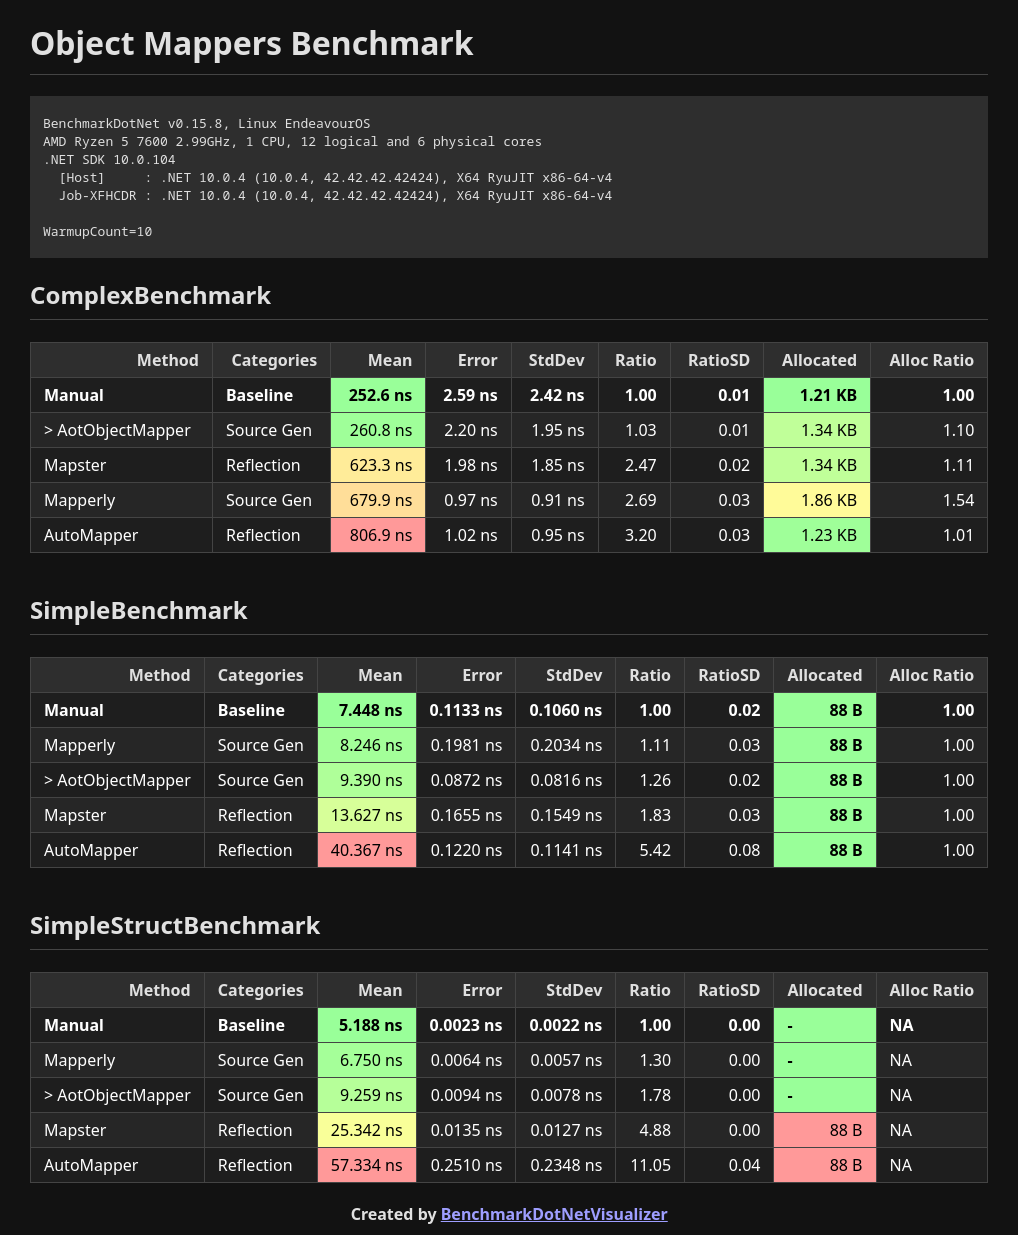
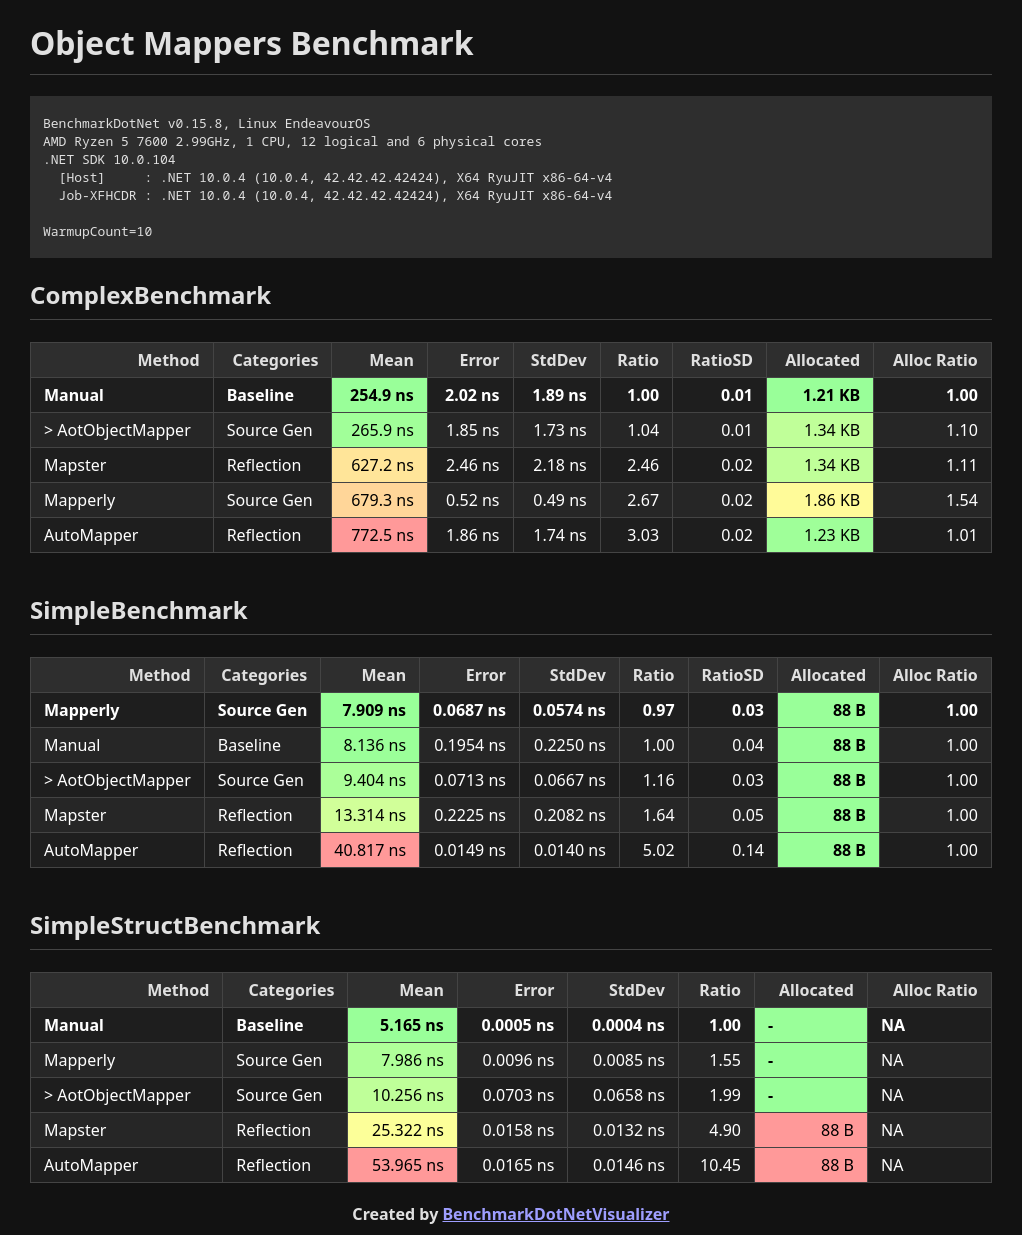
Update benchmark reports

diff --git a/Benchmarks/MappingBenchmarks/BenchmarkDotNet.Artifacts/results/MappingBenchmarks.SimpleStructBenchmark-report-github.md b/Benchmarks/MappingBenchmarks/BenchmarkDotNet.Artifacts/results/MappingBenchmarks.SimpleStructBenchmark-report-github.md
@@ -9,10 +9,10 @@ AMD Ryzen 5 7600 2.99GHz, 1 CPU, 12 logical and 6 physical cores
 WarmupCount=10  
 
 ```
-| Method              | Categories | Mean      | Error     | StdDev    | Ratio | RatioSD | Allocated | Alloc Ratio |
-|-------------------- |----------- |----------:|----------:|----------:|------:|--------:|----------:|------------:|
-| Manual              | Baseline   |  5.188 ns | 0.0023 ns | 0.0022 ns |  1.00 |    0.00 |         - |          NA |
-| Mapperly            | Source Gen |  6.750 ns | 0.0064 ns | 0.0057 ns |  1.30 |    0.00 |         - |          NA |
-| &#39;&gt; AotObjectMapper&#39; | Source Gen |  9.259 ns | 0.0094 ns | 0.0078 ns |  1.78 |    0.00 |         - |          NA |
-| Mapster             | Reflection | 25.342 ns | 0.0135 ns | 0.0127 ns |  4.88 |    0.00 |      88 B |          NA |
-| AutoMapper          | Reflection | 57.334 ns | 0.2510 ns | 0.2348 ns | 11.05 |    0.04 |      88 B |          NA |
+| Method              | Categories | Mean      | Error     | StdDev    | Ratio | Allocated | Alloc Ratio |
+|-------------------- |----------- |----------:|----------:|----------:|------:|----------:|------------:|
+| Manual              | Baseline   |  5.165 ns | 0.0005 ns | 0.0004 ns |  1.00 |         - |          NA |
+| Mapperly            | Source Gen |  7.986 ns | 0.0096 ns | 0.0085 ns |  1.55 |         - |          NA |
+| &#39;&gt; AotObjectMapper&#39; | Source Gen | 10.256 ns | 0.0703 ns | 0.0658 ns |  1.99 |         - |          NA |
+| Mapster             | Reflection | 25.322 ns | 0.0158 ns | 0.0132 ns |  4.90 |      88 B |          NA |
+| AutoMapper          | Reflection | 53.965 ns | 0.0165 ns | 0.0146 ns | 10.45 |      88 B |          NA |

diff --git a/Benchmarks/MappingBenchmarks/BenchmarkDotNet.Artifacts/results/MappingBenchmarks.SimpleBenchmark-report-github.md b/Benchmarks/MappingBenchmarks/BenchmarkDotNet.Artifacts/results/MappingBenchmarks.SimpleBenchmark-report-github.md
@@ -11,8 +11,8 @@ WarmupCount=10
 ```
 | Method              | Categories | Mean      | Error     | StdDev    | Ratio | RatioSD | Allocated | Alloc Ratio |
 |-------------------- |----------- |----------:|----------:|----------:|------:|--------:|----------:|------------:|
-| Manual              | Baseline   |  7.448 ns | 0.1133 ns | 0.1060 ns |  1.00 |    0.02 |      88 B |        1.00 |
-| Mapperly            | Source Gen |  8.246 ns | 0.1981 ns | 0.2034 ns |  1.11 |    0.03 |      88 B |        1.00 |
-| &#39;&gt; AotObjectMapper&#39; | Source Gen |  9.390 ns | 0.0872 ns | 0.0816 ns |  1.26 |    0.02 |      88 B |        1.00 |
-| Mapster             | Reflection | 13.627 ns | 0.1655 ns | 0.1549 ns |  1.83 |    0.03 |      88 B |        1.00 |
-| AutoMapper          | Reflection | 40.367 ns | 0.1220 ns | 0.1141 ns |  5.42 |    0.08 |      88 B |        1.00 |
+| Mapperly            | Source Gen |  7.909 ns | 0.0687 ns | 0.0574 ns |  0.97 |    0.03 |      88 B |        1.00 |
+| Manual              | Baseline   |  8.136 ns | 0.1954 ns | 0.2250 ns |  1.00 |    0.04 |      88 B |        1.00 |
+| &#39;&gt; AotObjectMapper&#39; | Source Gen |  9.404 ns | 0.0713 ns | 0.0667 ns |  1.16 |    0.03 |      88 B |        1.00 |
+| Mapster             | Reflection | 13.314 ns | 0.2225 ns | 0.2082 ns |  1.64 |    0.05 |      88 B |        1.00 |
+| AutoMapper          | Reflection | 40.817 ns | 0.0149 ns | 0.0140 ns |  5.02 |    0.14 |      88 B |        1.00 |

diff --git a/Benchmarks/MappingBenchmarks/BenchmarkDotNet.Artifacts/results/MappingBenchmarks.ComplexBenchmark-report-github.md b/Benchmarks/MappingBenchmarks/BenchmarkDotNet.Artifacts/results/MappingBenchmarks.ComplexBenchmark-report-github.md
@@ -11,8 +11,8 @@ WarmupCount=10
 ```
 | Method              | Categories | Mean     | Error   | StdDev  | Ratio | RatioSD | Allocated | Alloc Ratio |
 |-------------------- |----------- |---------:|--------:|--------:|------:|--------:|----------:|------------:|
-| Manual              | Baseline   | 252.6 ns | 2.59 ns | 2.42 ns |  1.00 |    0.01 |   1.21 KB |        1.00 |
-| &#39;&gt; AotObjectMapper&#39; | Source Gen | 260.8 ns | 2.20 ns | 1.95 ns |  1.03 |    0.01 |   1.34 KB |        1.10 |
-| Mapster             | Reflection | 623.3 ns | 1.98 ns | 1.85 ns |  2.47 |    0.02 |   1.34 KB |        1.11 |
-| Mapperly            | Source Gen | 679.9 ns | 0.97 ns | 0.91 ns |  2.69 |    0.03 |   1.86 KB |        1.54 |
-| AutoMapper          | Reflection | 806.9 ns | 1.02 ns | 0.95 ns |  3.20 |    0.03 |   1.23 KB |        1.01 |
+| Manual              | Baseline   | 254.9 ns | 2.02 ns | 1.89 ns |  1.00 |    0.01 |   1.21 KB |        1.00 |
+| &#39;&gt; AotObjectMapper&#39; | Source Gen | 265.9 ns | 1.85 ns | 1.73 ns |  1.04 |    0.01 |   1.34 KB |        1.10 |
+| Mapster             | Reflection | 627.2 ns | 2.46 ns | 2.18 ns |  2.46 |    0.02 |   1.34 KB |        1.11 |
+| Mapperly            | Source Gen | 679.3 ns | 0.52 ns | 0.49 ns |  2.67 |    0.02 |   1.86 KB |        1.54 |
+| AutoMapper          | Reflection | 772.5 ns | 1.86 ns | 1.74 ns |  3.03 |    0.02 |   1.23 KB |        1.01 |
